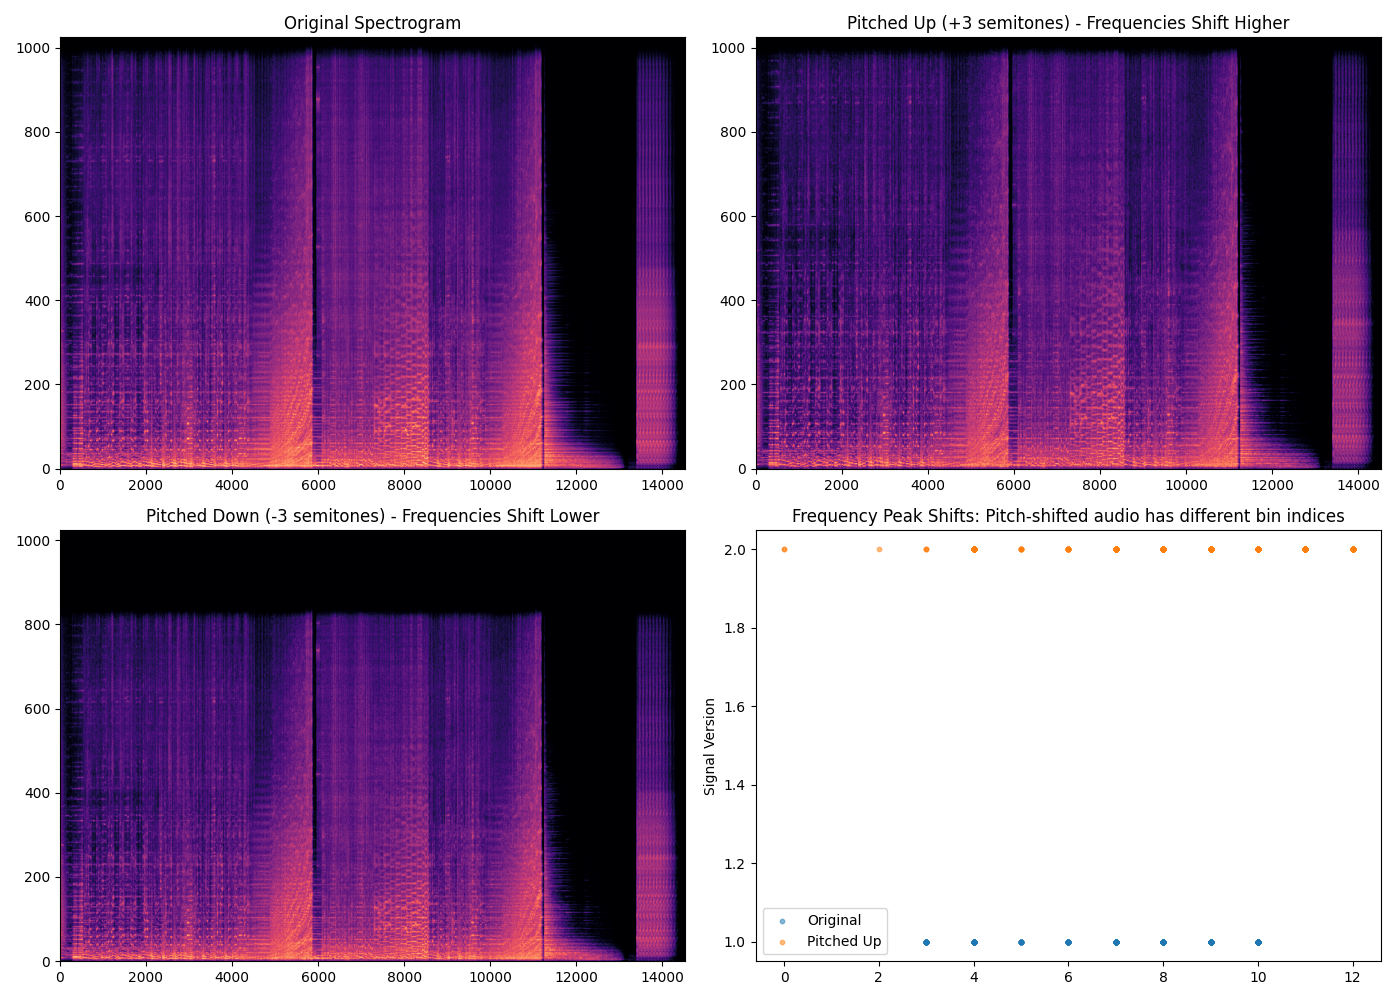
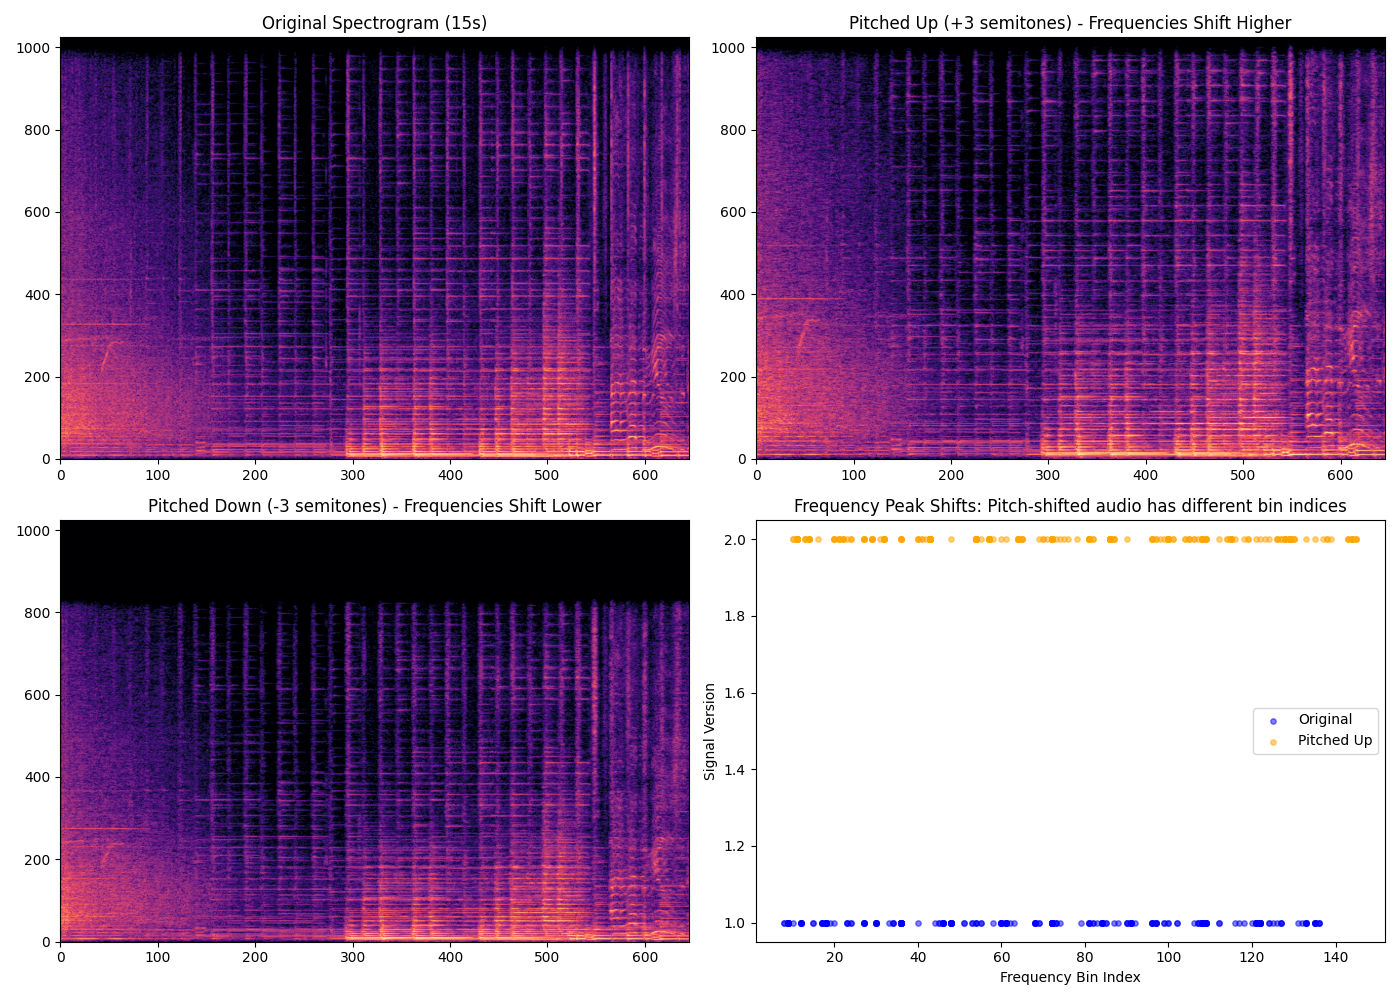
Fix streamlit deprecation warning and regenerate PDF report

diff --git a/generate_pdf_report.py b/generate_pdf_report.py
@@ -75,16 +75,20 @@ def create_report(output_filename="Q3A_Audio_Fingerprinting_Report.pdf"):
     student_style = ParagraphStyle(
         'StudentInfo',
         parent=styles['Normal'],
-        fontSize=11,
+        fontSize=10.5,
         alignment=TA_CENTER,
         textColor=HexColor('#333333'),
-        leading=16,
+        leading=15,
         spaceAfter=12
     )
     student_info = """
     <b>Prepared By:</b><br/>
     Arnab Patra (Roll: 240186)<br/>
-    Akshita (Roll: 240090)<br/>
+    Akshita (Roll: 240090)<br/><br/>
+    <b>Live Deployed Streamlit App:</b><br/>
+    <font color="#1f4788"><u>https://arnabz-77-audio-fingerprinter-app.streamlit.app</u></font><br/><br/>
+    <b>GitHub Source Code Repository:</b><br/>
+    <font color="#1f4788"><u>https://github.com/ArnabZ-77/audio-fingerprinter</u></font>
     """
     story.append(Paragraph(student_info, student_style))
     story.append(Spacer(1, 0.2*inch))
@@ -384,7 +388,7 @@ def create_report(output_filename="Q3A_Audio_Fingerprinting_Report.pdf"):
     
     # Build PDF
     doc.build(story)
-    print(f"\n✅ PDF Report saved: {output_filename}")
+    print(f"\n[SUCCESS] PDF Report saved: {output_filename}")
 
 if __name__ == "__main__":
     create_report()

diff --git a/app.py b/app.py
@@ -372,7 +372,7 @@ else:
             # Candidate Scores Table 
             st.write("### Candidate Scores (Top 5)")
             df_scores = pd.DataFrame(score_chart, columns=["Candidate Track", "Hits Score"])
-            st.dataframe(df_scores.head(5), use_container_width=True)
+            st.dataframe(df_scores.head(5), width="stretch")
 
             # --- VISUAL PIPELINE INTERMEDIATE STEPS ---
             st.markdown("---")
@@ -656,7 +656,7 @@ else:
                 st.markdown(f"<div class='metric-box'><div class='metric-title'>🎯 SUCCESS RATE</div><div class='metric-value'>{success_rate:.1f}%</div><div class='metric-footer'>Overall confidence</div></div>", unsafe_allow_html=True)
             
             st.write("### Batch Results Table")
-            st.dataframe(df_batch, use_container_width=True)
+            st.dataframe(df_batch, width="stretch")
             
             csv_data = df_batch.to_csv(index=False).encode('utf-8')
             st.download_button(